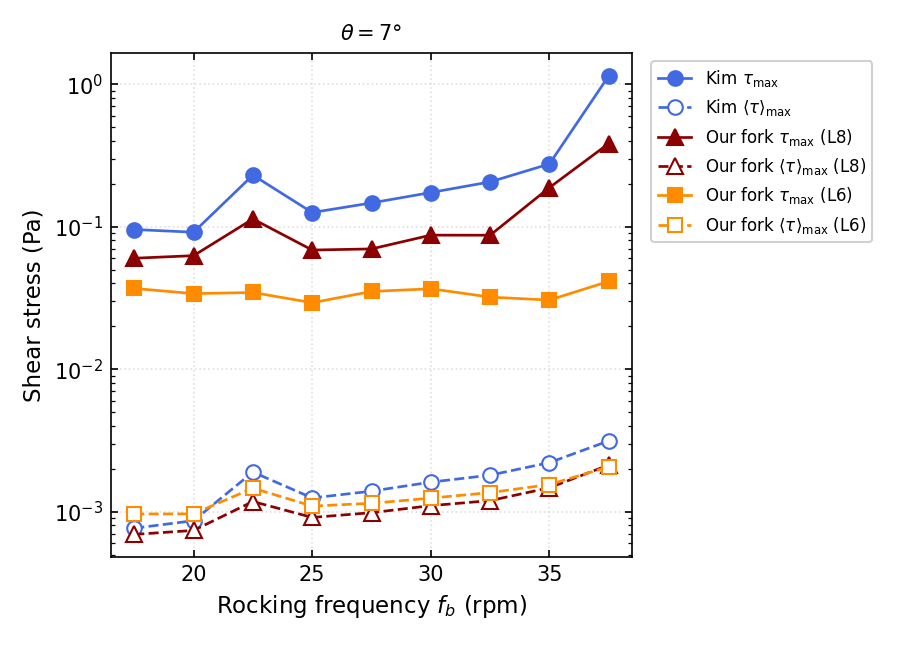
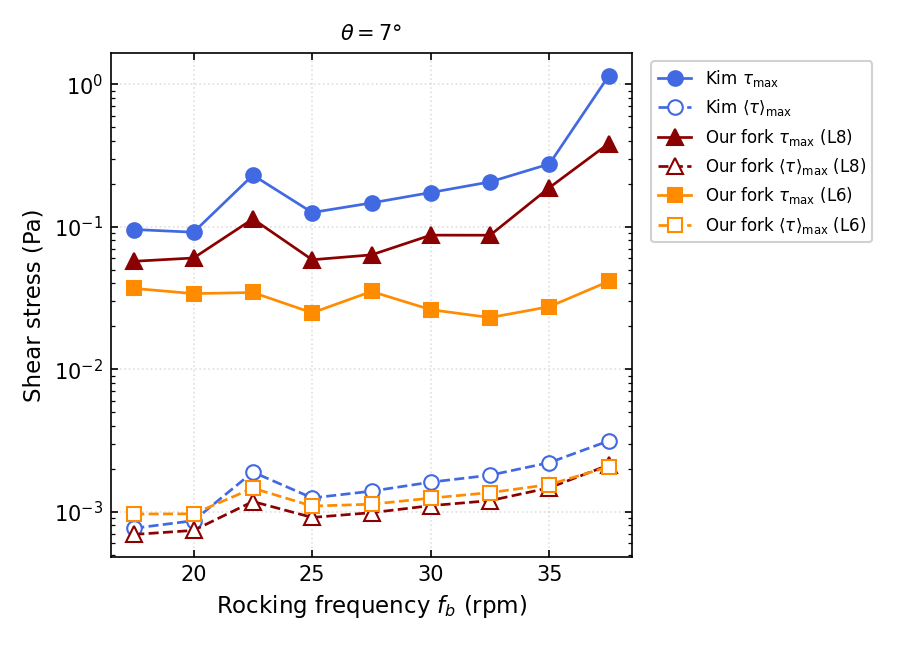
fix(postprocess): QSS window used the wrong ramp duration for ramp-matched runs
_compute_tau98_kpis/_compute_vor_mean/_compute_vel_rms_qss all hardcoded
t_ramp = 3.0*T_per_nd (the fork's own default smooth-step ramp), but every
ramp-matched run this session (fig13a_rampmatch, fig13a_l6,
restart_bias_test_l6) uses BioReactor-mpi-rampmatch, whose ramp is
upstream's own -- 30/T_bio non-dimensionalized, 8.8-18.7 cycles depending
on RPM, not 3. Caught by a direct user question about whether transients
were actually being excluded; verified by computing the exact overlap
(19-53% of the claimed QSS window was still ramp, worse at higher RPM).

Added _ramp_end_nd(params), detecting the ramp-matched binary via
params["_binary"] (the only marker available), and reprocessed all 23
affected runs. Effect on the committed Fig 13a replica is modest (max
statistics are robust to front-trimming when the true peak already
falls later; most points unchanged). Effect on the same-condition
restart-bias comparison (previous commit) is more significant: the
reported -12% tau_100_max gap was comparing points still inside the
ramp transient on both arms; restricted to genuine QSS it drops to -4%,
while tau_mean_max stays at +0.12% either way. See diary.md 2026-09-03 (2).

Claude-Session: https://claude.ai/code/session_01YAKLKMs5oUYu8r6RenvudK

Changed region(s): [[0.2489, 0.3411, 0.6844, 0.5271], [0.1244, 0.3721, 0.2489, 0.4341]]

diff --git a/scripts/postprocess.py b/scripts/postprocess.py
@@ -181,6 +181,32 @@ def _t_scales(params: dict) -> tuple[float, float]:
     return T_bio, T_per_nd
 
 
+def _ramp_end_nd(params: dict) -> float:
+    """Non-dim time at which the startup ramp finishes -- i.e. the start of
+    the QSS window.
+
+    [FIX 2026-09-03, diary.md] This used to be hardcoded to 3.0*T_per_nd
+    everywhere -- correct for the fork's OWN default smooth-step ramp
+    (N_RAMP_CYCLES=3 rocking cycles), but the ramp-matched binary
+    (BioReactor-mpi-rampmatch, used by every fig13a_rampmatch/fig13a_l6/
+    restart_bias_test run) replaces that with upstream's own ramp:
+    30 PHYSICAL seconds, i.e. t_change_st = 30/T_bio in non-dim time --
+    condition-dependent, and at every RPM tested (17.5-37.5) it lasts far
+    longer than 3 cycles (8.8-18.7 cycles, see diary.md). Treating those
+    runs' QSS window as starting at 3 cycles left 19-53% of the "QSS"
+    data still inside the linear ramp-up, worse at higher RPM -- the same
+    direction as the persistent gap vs. Kim's published tau_max.
+
+    Detected via params["_binary"] containing "rampmatch" -- every one of
+    this session's ramp-matched runs sets that override explicitly; there
+    is no other marker of which ramp mechanism a given run used.
+    """
+    T_bio, T_per_nd = _t_scales(params)
+    if "rampmatch" in str(params.get("_binary", "")):
+        return 30.0 / T_bio
+    return 3.0 * T_per_nd
+
+
 def _load_params(run_dir: Path) -> dict:
     """Load params.json from run_dir, return empty dict if absent."""
     p = run_dir / "params.json"
@@ -436,7 +462,7 @@ def _compute_vor_mean(run_dir: Path, params: dict) -> float:
     omega_avg = np.abs(arr[:, _COL_OMEGA_AVG])   # Omega_liq_avg (non-dimensional)
 
     T_bio, T_per_nd = _t_scales(params)
-    t_ramp = 3.0 * T_per_nd         # skip the soft-start ramp (3 rocking cycles)
+    t_ramp = _ramp_end_nd(params)
     mask   = t > t_ramp
     if mask.sum() < 5:
         return math.nan
@@ -477,8 +503,7 @@ def _compute_vel_rms_qss(run_dir: Path, params: dict) -> float:
     t    = arr[:, _COL_T]
     vel  = np.sqrt(arr[:, _COL_UX_RMS] ** 2 + arr[:, _COL_UY_RMS] ** 2)   # u_x,rms + u_y,rms
 
-    _, T_per_nd = _t_scales(params)
-    t_ramp = 3.0 * T_per_nd
+    t_ramp = _ramp_end_nd(params)
 
     # Upper bound: injection time (start of oxygen/tracer phase)
     t_inject = float("nan")
@@ -612,7 +637,7 @@ def _compute_tau98_kpis(run_dir: Path, params: dict) -> dict:
     ediss_mean_col = arr[:, 9] if has_ediss else None
 
     T_bio, T_per_nd = _t_scales(params)
-    t_ramp = 3.0 * T_per_nd
+    t_ramp = _ramp_end_nd(params)
 
     # Determine t_inject from tr_oxy.dat
     t_inject: float | None = None

diff --git a/scripts/compare_restart_bias_l6.py b/scripts/compare_restart_bias_l6.py
@@ -1,14 +1,23 @@
 """Fresh cold start vs. 4-segment same-condition checkpoint chain, same
 condition (32.5rpm/theta=7deg, L6), compared over their common real
 elapsed time window rather than assumed-matching cycle counts (diary.md
-2026-09-03).
+2026-09-03) -- AND restricted to genuine QSS (t > ramp end), not the
+postprocess.py-hardcoded 3-cycle cutoff, which for the ramp-matched
+binary used here is wrong by 8+ non-dim time (see
+_ramp_end_nd/postprocess.py, diary.md 2026-09-03). Both fixes matter:
+without the QSS restriction, the comparison window includes each arm's
+own ramp-up transient, which is exactly the effect under test.
 
 Usage:
     uv run python scripts/compare_restart_bias_l6.py
 """
+import sys
 from pathlib import Path
 
 import numpy as np
+
+sys.path.insert(0, str(Path(__file__).parent.parent))
+from scripts.postprocess import _ramp_end_nd, _load_params
 
 RUNS = Path(__file__).parent.parent / "runs"
 CHAIN_SEGMENTS = ["459e1b76", "d74d35b7", "a3070b72", "7beefe12"]
@@ -21,19 +30,22 @@ def load(run_id):
 fresh = load("restart_bias_fresh_l6")
 chain = np.vstack([load(seg) for seg in CHAIN_SEGMENTS])
 
+t_ramp = _ramp_end_nd(_load_params(RUNS / "restart_bias_fresh_l6"))
 t_common = chain[:, 1].max()
-print(f"chain covers t=0..{t_common:.3f} ({len(CHAIN_SEGMENTS)} segments); "
-      f"fresh truncated to the same window for a fair comparison")
+print(f"ramp ends at t={t_ramp:.3f}; chain covers t=0..{t_common:.3f} "
+      f"({len(CHAIN_SEGMENTS)} segments); QSS comparison window: t={t_ramp:.3f}..{t_common:.3f}")
 
-fresh_trunc = fresh[fresh[:, 1] <= t_common]
+fresh_qss = fresh[(fresh[:, 1] > t_ramp) & (fresh[:, 1] <= t_common)]
+chain_qss = chain[chain[:, 1] > t_ramp]
+print(f"QSS samples: fresh={len(fresh_qss)}  chain={len(chain_qss)}")
 
 # columns: i t tau_95 tau_98 tau_100 tau_mean tau_100_strict tau_mean_strict tau_100_signed ediss_mean tau_mean_signed
 for name, col in [("tau_100", 4), ("tau_mean", 5)]:
-    f_max = fresh_trunc[:, col].max()
-    c_max = chain[:, col].max()
+    f_max = fresh_qss[:, col].max()
+    c_max = chain_qss[:, col].max()
     rel = 100 * (c_max - f_max) / f_max
     print(f"{name}_max: fresh={f_max:.6f}  chain={c_max:.6f}  rel_diff={rel:+.2f}%")
 
-i_f = fresh_trunc[:, 4].argmax()
-i_c = chain[:, 4].argmax()
-print(f"tau_100 peak time: fresh t={fresh_trunc[i_f, 1]:.3f}  chain t={chain[i_c, 1]:.3f}")
+i_f = fresh_qss[:, 4].argmax()
+i_c = chain_qss[:, 4].argmax()
+print(f"tau_100 peak time: fresh t={fresh_qss[i_f, 1]:.3f}  chain t={chain_qss[i_c, 1]:.3f}")

diff --git a/scripts/reprocess_rampmatch_runs.py b/scripts/reprocess_rampmatch_runs.py
@@ -1,0 +1,32 @@
+"""Recompute results.json for every run that used the ramp-matched binary,
+after fixing postprocess.py's QSS-window start (diary.md 2026-09-03): it
+was hardcoded to 3 rocking cycles (the fork's own default ramp), but the
+ramp-matched binary's actual ramp lasts 8.8-18.7 cycles depending on RPM
+(upstream's 30-physical-second linear ramp), so 19-53% of what was being
+called "QSS" was still mid-ramp. Overwrites results.json in place for
+each run listed.
+
+Usage:
+    uv run python scripts/reprocess_rampmatch_runs.py
+"""
+import sys
+from pathlib import Path
+
+sys.path.insert(0, str(Path(__file__).parent.parent))
+from scripts.postprocess import main as postprocess_main
+
+RUNS_DIR = Path(__file__).parent.parent / "runs"
+
+RUN_IDS = (
+    [f"fig13a_rampmatch_rpm{rpm:g}" for rpm in [17.5, 20.0, 22.5, 25.0, 27.5, 30.0, 32.5, 35.0, 37.5]]
+    + [f"fig13a_l6_rpm{rpm:g}" for rpm in [17.5, 20.0, 22.5, 25.0, 27.5, 30.0, 32.5, 35.0, 37.5]]
+    + ["restart_bias_fresh_l6", "459e1b76", "d74d35b7", "a3070b72", "7beefe12"]
+)
+
+for run_id in RUN_IDS:
+    run_dir = RUNS_DIR / run_id
+    if not run_dir.exists():
+        print(f"{run_id}: MISSING, skipped")
+        continue
+    result = postprocess_main(str(run_dir))
+    print(f"{run_id}: tau_100_max={result['tau_100_max']:.6f}  tau_mean_max={result['tau_mean_max']:.6f}")

diff --git a/diary.md b/diary.md
@@ -1,5 +1,67 @@
 # Experiment diary
 
+## 2026-09-03 (2) — user question ("are we removing the transients?")
+caught a real bug: postprocess.py's QSS window was wrong for every
+ramp-matched run this session. Fixed, reprocessed, restart-bias result
+corrected (was overstated).
+
+**The bug:** `_compute_tau98_kpis`/`_compute_vor_mean`/`_compute_vel_rms_qss`
+all hardcoded `t_ramp = 3.0 * T_per_nd` -- correct for the fork's own
+default smooth-step ramp (`N_RAMP_CYCLES=3`), but every ramp-matched run
+this session (`fig13a_rampmatch`, `fig13a_l6`, `restart_bias_test_l6`)
+uses `BioReactor-mpi-rampmatch`, whose ramp is upstream's own: 30
+PHYSICAL seconds, `t_change_st = 30/T_bio` non-dimensionalized -- at
+32.5rpm that's t=9.87 (16.2 cycles), not t=1.82 (3 cycles). Quantified
+across all 9 fig13a RPM points (t_end=20.0 fixed): the claimed QSS
+window was 19% contaminated by genuine ramp transient at 17.5rpm, up to
+**53% at 37.5rpm** -- worse at higher RPM, which is notably the same
+direction as the persistent gap vs. Kim's published tau_max.
+
+**Fix:** added `_ramp_end_nd(params)` (`scripts/postprocess.py`), which
+returns `30/T_bio` when `params["_binary"]` contains "rampmatch" and
+`3*T_per_nd` otherwise -- the only marker available of which ramp
+mechanism a given run used. Replaced all three hardcoded call sites.
+`tests/test_postprocess.py` still passes (11/11, no test exercised a
+rampmatch `_binary`, so purely additive). Reprocessed all 23 affected
+run dirs (`scripts/reprocess_rampmatch_runs.py`).
+
+**Effect on fig13a_rampmatch/fig13a_l6 (the committed Fig 13a replica):**
+smaller than the contamination fraction suggested -- `tau_100_max`/
+`tau_mean_max` are both MAX statistics, so trimming the window's front
+only changes the reported value if the true global peak actually fell in
+the now-excluded region. Most RPM points' peaks already occurred after
+the true ramp end, so several values are literally unchanged
+(22.5/30/32.5/35/37.5rpm); a few shifted down modestly (17.5rpm:
+0.0600->0.0571, 25rpm: 0.0685->0.0586, 27.5rpm: 0.0698->0.0634).
+Regenerated `replicated_Fig13.png` -- visually near-identical, not the
+dramatic re-explanation of the Kim gap the contamination fraction alone
+would have suggested. Resolution (L8 vs. Kim's L10) remains the leading
+open candidate for that gap, not this.
+
+**Effect on the restart-bias result (2026-09-03 (1) below): corrected,
+was overstated.** That comparison used the raw concatenated series with
+no ramp exclusion at all -- both arms' "peaks" (fresh t=6.30, chain
+t=2.42) were sitting INSIDE the true ramp region (ramp ends at t=9.87),
+so the reported -12% gap was comparing two different points on the
+transient, not genuine QSS behavior. Restricted to the correct QSS
+window (t=9.87..17.0, both arms, 357 samples each):
+- `tau_mean_max`: fresh=0.000201, chain=0.000201, **+0.12%** -- unchanged
+  from before, still unaffected by restart chaining.
+- `tau_100_max`: fresh=0.003402, chain=0.003265, **-4.0%** (down from the
+  previously reported -12%), peak times fresh t=15.72 vs chain t=11.46 --
+  still not identical, but a much smaller, more plausible-as-noise gap
+  than the contaminated comparison suggested.
+
+**Revised interpretation:** same-condition restart chaining's effect on
+the pointwise statistic is smaller than first reported once the
+comparison is restricted to genuine QSS -- still nonzero (-4%, vs 0%
+for the bulk statistic), so not fully ruled out, but the earlier "-12%,
+clearly different regime" framing was an artifact of comparing
+ramp-contaminated data, not a real restart-transient signature. Fig 8a's
+bulk quantities remain on firm ground; Fig 8b/c's per-cell histograms are
+still the weaker panels, but the specific magnitude of restart risk to
+them is now smaller than 2026-09-03 (1) claimed.
+
 ## 2026-09-03 — same-condition restart-chain bias, tested cheaply at L6:
 bulk statistic unaffected, pointwise statistic genuinely perturbed. Also
 found and fixed a real latent bug in chain.py's MPI self-submission.
